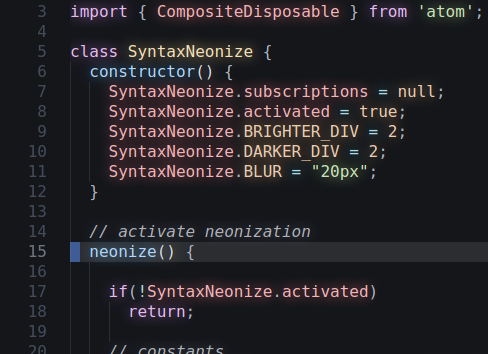
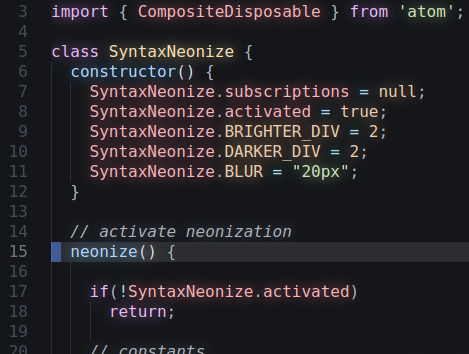
Resized the screenshots to be same. (Still little bit diferent)

diff --git a/README.md b/README.md
@@ -16,6 +16,8 @@ The syntax theme used in the screenshots is 'one-dark', which is one of built-in
 ### After apply of neonization
 ![Screenshot](https://raw.githubusercontent.com/youngmoon01/syntax-neonize/master/docs/after_neonize.png)
 
+(Captured images have slightly different sizes in pixels. There is no font/size/scale difference after neonization.)
+
 ## Usages
 The *neonization* will be automatically applied after package install.
 Turn on/off the *neonization* through either the Command Palette or shortcut below.
